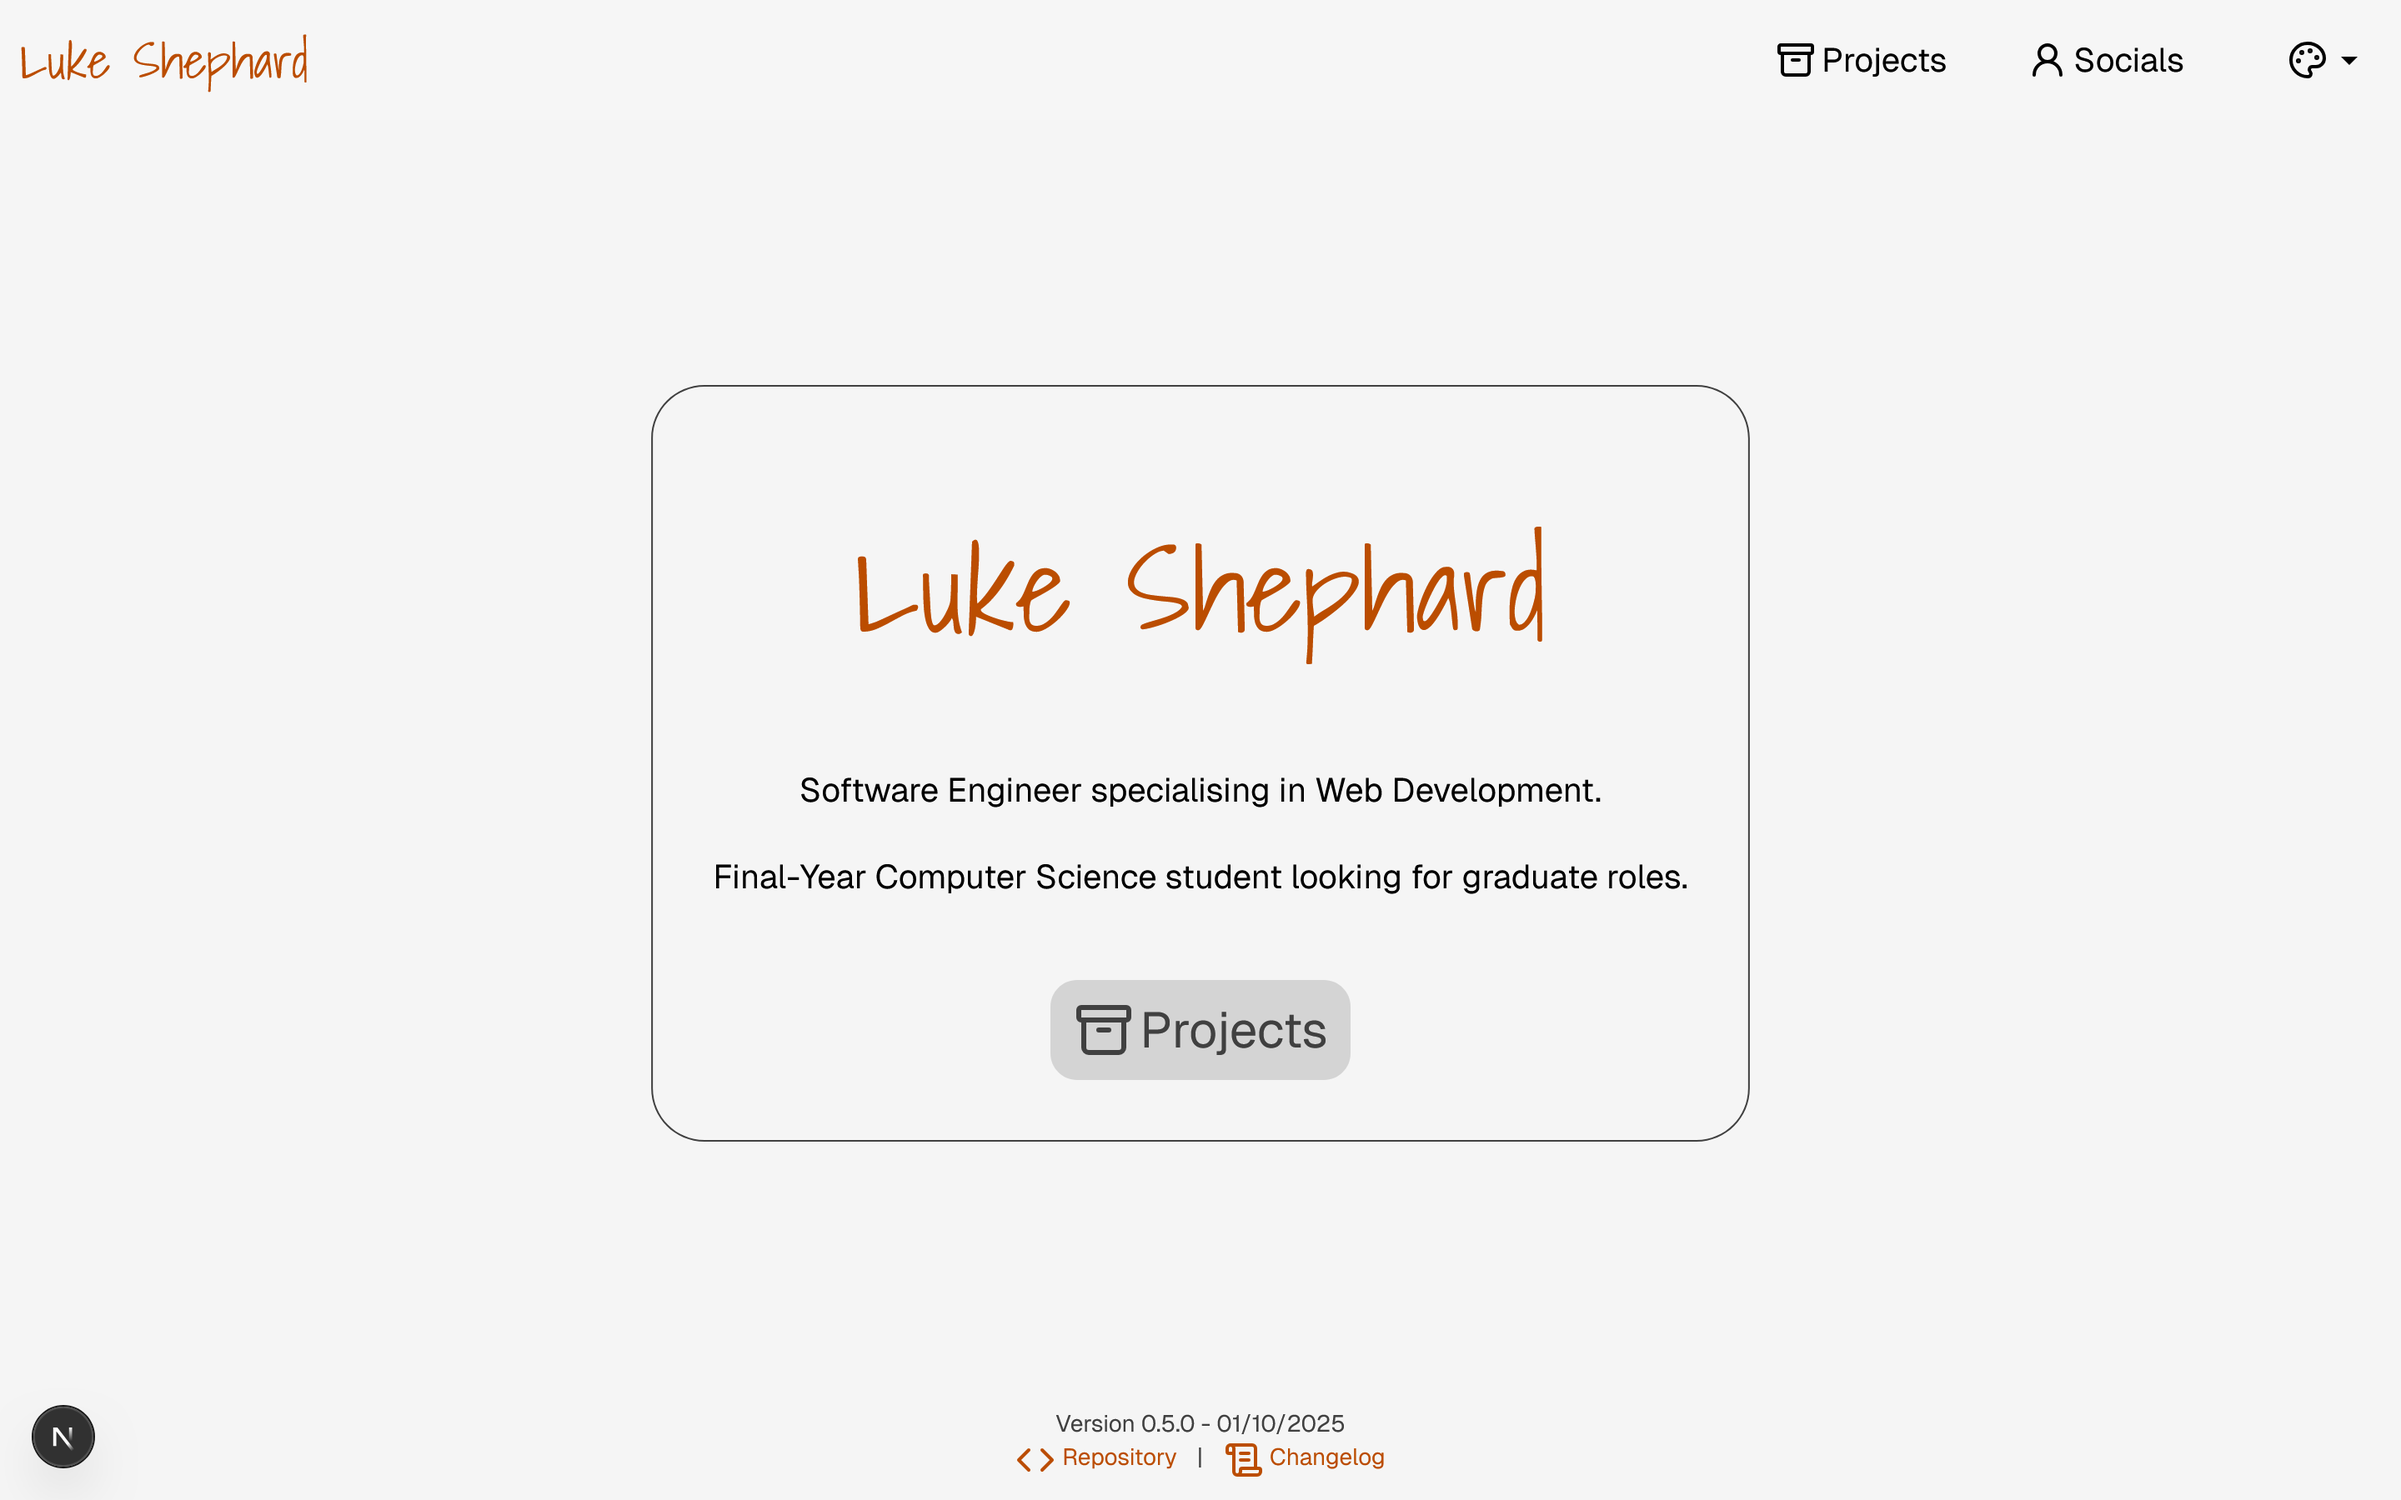
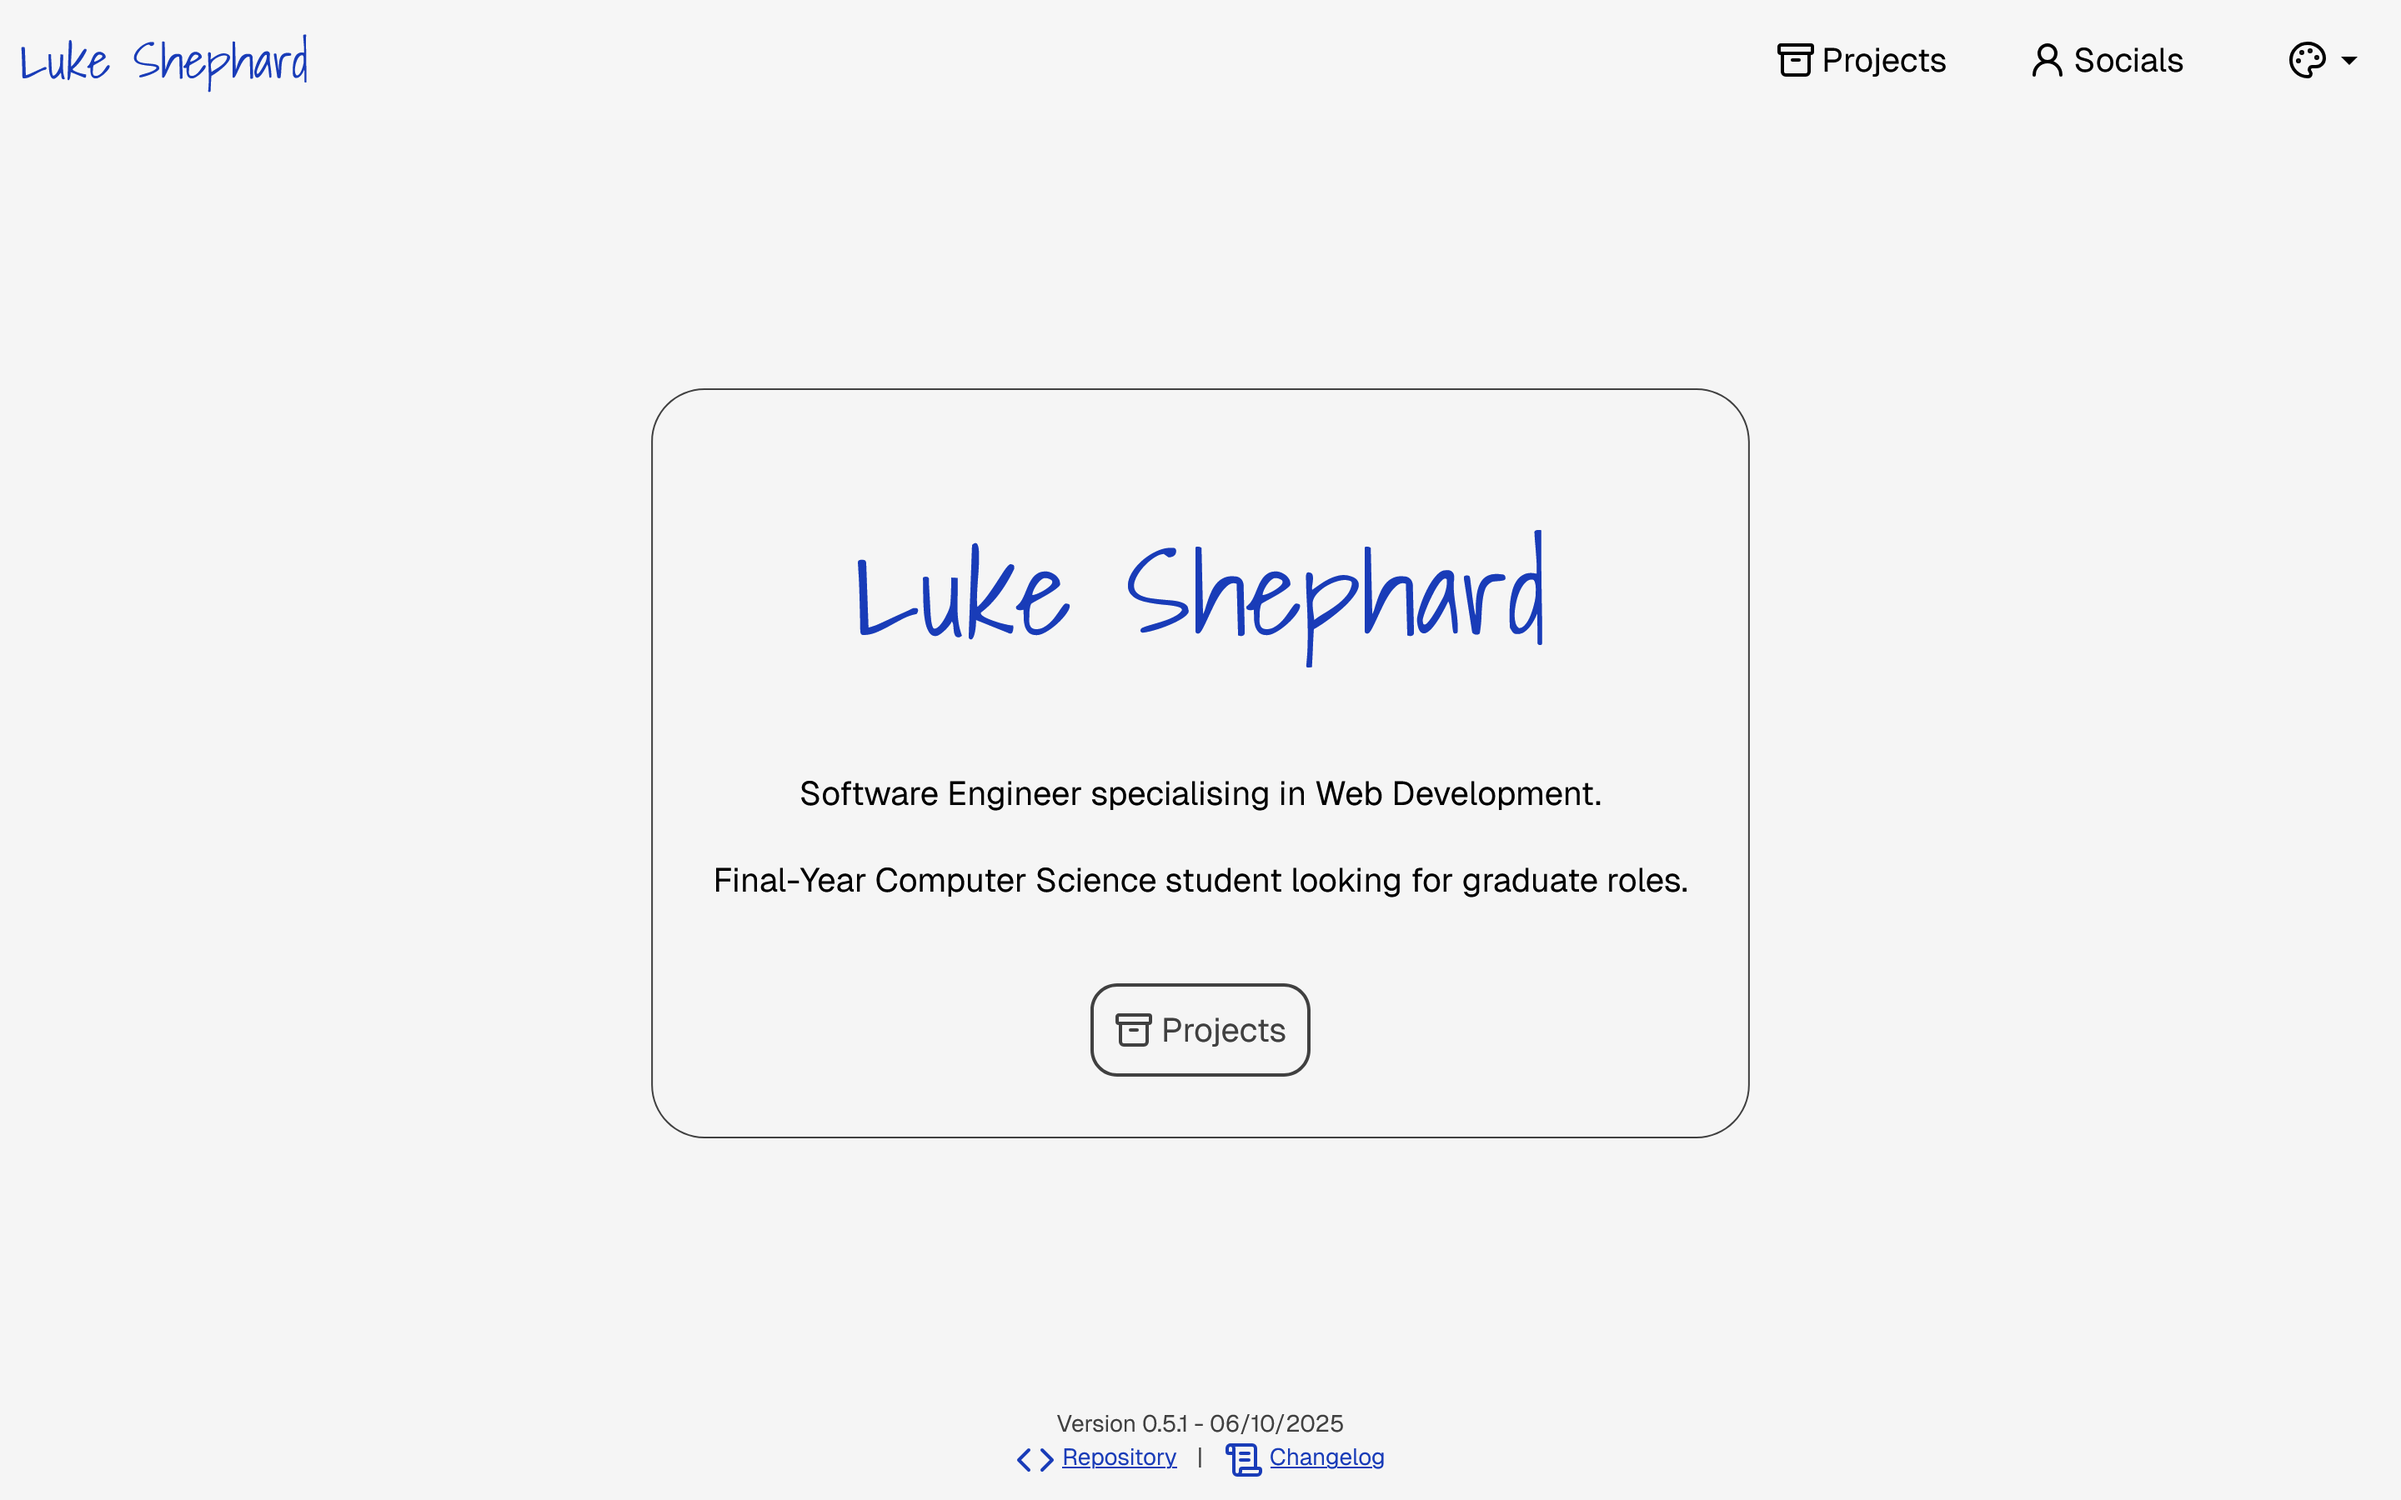
Recreate portfolio images

diff --git a/app/projects/page.tsx b/app/projects/page.tsx
@@ -58,7 +58,9 @@ export default function Projects() {
                 imagesData={[
                   {name: "homepage", alt: `The homepage, showing a hero section in the center with "Luke Shephard" in large with a button to view projects.`},
                   {name: "projects", alt: "The projects page, showing the project \"QMTrack\" with a description and a desktop image of the dashboard."},
+                  {name: "socials", alt: "The socials page, showing different links for email, GitHub and LinkedIn."},
                   {name: "homepage-light", alt: `The homepage in the "light" theme, showing a hero section in the center with "Luke Shephard" in large with a button to view projects.`},
+                  {name: "homepage-dark", alt: `The homepage in the "dark" theme, showing a hero section in the center with "Luke Shephard" in large with a button to view projects.`},
                 ]}
                 devInfo="A static website built with Next.js (App Router) and React, hosted on Cloudflare Workers. I have been (and still am) working on this website on and off since August 2024, the same time I started to teach myself React. As my web development experience has grown, I have made great improvements in understanding what makes a good UI."
               />

diff --git a/app/socials/page.tsx b/app/socials/page.tsx
@@ -15,8 +15,8 @@ export default function Page() {
         <Card title="My Socials" mainTitle>
             <ul className="pb-2 text-md sm:text-xl [&>*]:flex [&>*]:justify-center [&>*]:whitespace-pre space-y-3">
                 <li><Mail className="my-auto mr-1"/>Email: <a href="mailto:luke@lukeshephard.com" target="_blank" rel="noopener noreferrer">luke@lukeshephard.com</a></li>
-                <li><GitMerge className="my-auto mr-1"/>Github: <a href="https://github.com/lukeshephard" target="_blank" rel="noopener noreferrer">lukeshephard</a></li>
-                <li><BookUser className="my-auto mr-1"/>Linkedin: <a href="https://www.linkedin.com/in/luke-shephard/" target="_blank" rel="noopener noreferrer">luke-shephard</a></li>
+                <li><GitMerge className="my-auto mr-1"/>GitHub: <a href="https://github.com/lukeshephard" target="_blank" rel="noopener noreferrer">lukeshephard</a></li>
+                <li><BookUser className="my-auto mr-1"/>LinkedIn: <a href="https://www.linkedin.com/in/luke-shephard/" target="_blank" rel="noopener noreferrer">luke-shephard</a></li>
             </ul>
         </Card>
     )

diff --git a/app/page.tsx b/app/page.tsx
@@ -24,7 +24,7 @@ export default function Home() {
       </div>
       <div className="pt-10 md:p-0 text-xs md:text-sm 2xl:text-lg mb-3">
         <hr className="mb-3 md:hidden" />
-        <p>Version 0.5.1 - 05/10/2025</p>
+        <p>Version 0.5.1 - 06/10/2025</p>
         <div className="flex justify-center gap-3">
           <a className="flex justify-center" target="_blank" rel="noopener noreferrer" href="https://github.com/lukeshephard/portfolio"><Code className="my-auto mr-1"/>Repository</a>
           <p> | </p>

diff --git a/app/layout.tsx b/app/layout.tsx
@@ -60,7 +60,7 @@ export default function RootLayout({
   children: React.ReactNode;
 }>) {
   return (
-    <html lang="en" suppressHydrationWarning>
+    <html lang="en" suppressHydrationWarning className="md:scroll-pt-18">
       <body
         className={`${geist.className} antialiased h-screen`}
       >

diff --git a/app/globals.css b/app/globals.css
@@ -100,10 +100,6 @@
     color: var(--logo-active)
   } */
 
-  html {
-    scroll-padding-top: calc(var(--spacing) * 18);
-  }
-
   body {
     color: var(--text);
     background: var(--background);
